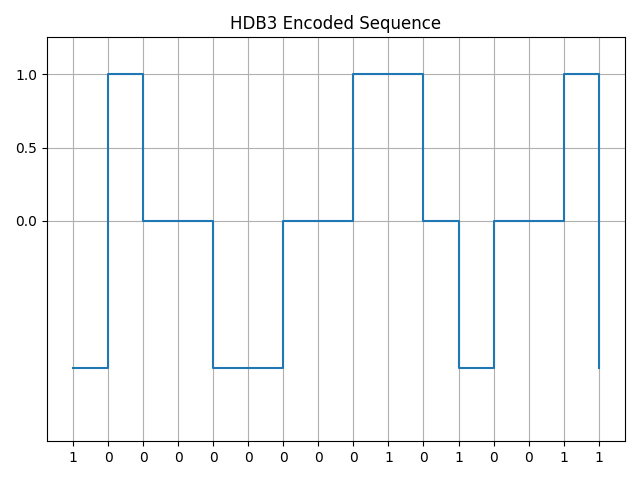
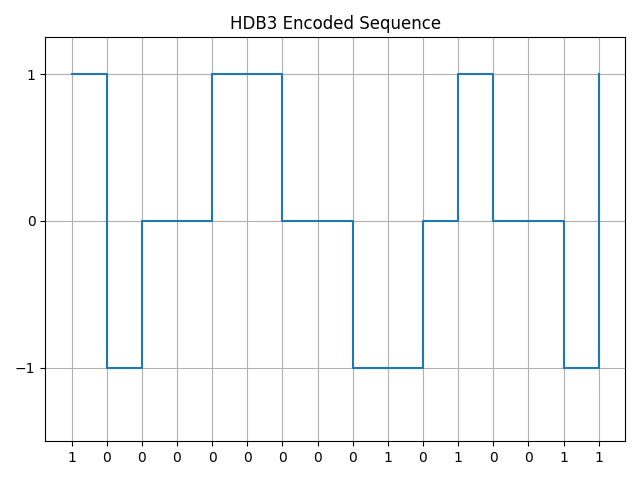
hdb3 plots yticks

diff --git a/project/hdb3/hdb3_plot.py b/project/hdb3/hdb3_plot.py
@@ -16,7 +16,7 @@ def plot_hdb3():
     print(f"Sequência 1: {''.join(str(bit) for bit in signal_1)}\nSequência 2: {''.join(str(bit) for bit in signal_2)}\n")
 
     # Gráfico do sinal HDB3 codificado
-    plot_signal(SEQUENCE_1, signal_1, "HDB3 Encoded Sequence", os.path.join(outpur_dir, "hdb3_encoded_signal1"), negative_ylim=1.5)
+    plot_signal(SEQUENCE_1, signal_1, "HDB3 Encoded Sequence", os.path.join(outpur_dir, "hdb3_encoded_signal1"), negative_ylim=1.5, yticks=[-1, 0, 1])
 
     # Gráfico do sinal 2 HDB3 codificado
-    plot_signal(SEQUENCE_2, signal_2, "HDB3 Encoded Sequence", os.path.join(outpur_dir, "hdb3_encoded_signal2"), negative_ylim=1.5)
+    plot_signal(SEQUENCE_2, signal_2, "HDB3 Encoded Sequence", os.path.join(outpur_dir, "hdb3_encoded_signal2"), negative_ylim=1.5, yticks=[-1, 0, 1])

diff --git a/project/utils/plot_encoding.py b/project/utils/plot_encoding.py
@@ -1,6 +1,6 @@
 import matplotlib.pyplot as plt
 
-def plot_signal(bits, signal, title, file_path, negative_ylim=0.25, manchester=False):
+def plot_signal(bits, signal, title, file_path, negative_ylim=0.25, yticks=[0, 0.5, 1], manchester=False):
     if manchester:
         # Criar o eixo do tempo e duplicar o sinal corretamente
         time = []
@@ -35,7 +35,7 @@ def plot_signal(bits, signal, title, file_path, negative_ylim=0.25, manchester=F
     plt.title(title)
     plt.ylim(-negative_ylim, 1.25)
     plt.grid(True)
-    plt.yticks([0, 0.5, 1])
+    plt.yticks(yticks)
     
     # Ajustando os rótulos dos bits no eixo X
     plt.xticks(ticks, labels)

diff --git a/project/hdb3/hdb3_encode.py b/project/hdb3/hdb3_encode.py
@@ -1,7 +1,7 @@
 def hdb3(bits):
     # Implementação simplificada de HDB3 (bipolar encoding com violação após 4 zeros consecutivos)
     result = []
-    polarity = 1
+    polarity = -1
     zero_count = 0
     for bit in bits:
         if bit == '0':
